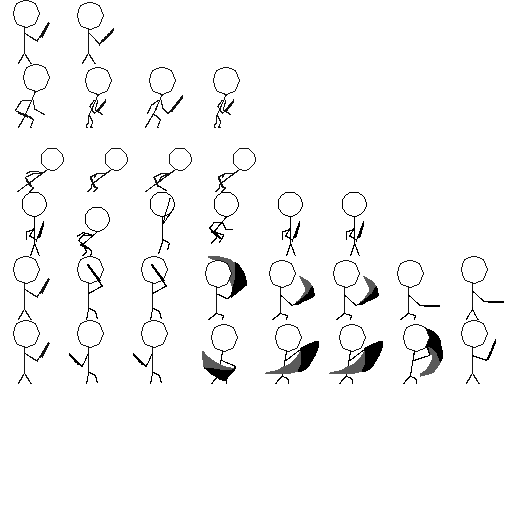
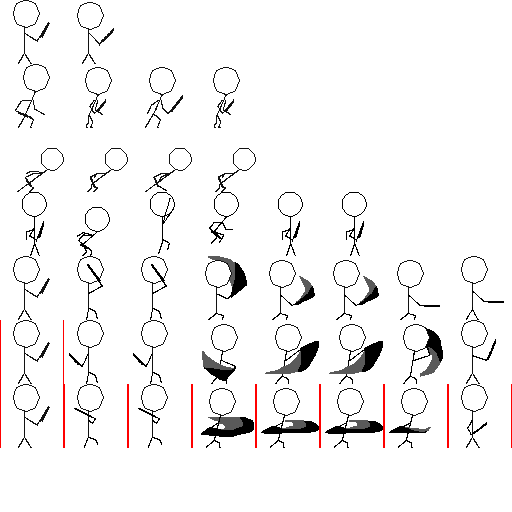
use combo of three attacks

diff --git a/src/application/player.c b/src/application/player.c
@@ -18,8 +18,10 @@ typedef enum
     PS_IDLE =                   0,
     PS_WALKING =                1,
     PS_JUMPING =                2,
-    PS_ATTACK1 =                3,
-    PS_ATTACK2 =                4
+    PS_ATTACKING =              3
+    // PS_ATTACK1 =                3,
+    // PS_ATTACK2 =                4,
+    // PS_ATTACK3 =                5
 } PlayerState;
 
 typedef enum
@@ -42,6 +44,7 @@ float walkDir = 0.0f;
 uint8_t left, right;
 PlayerState currentState = PS_IDLE;
 PhysicsEntity *phys = NULL;
+// float lastAttack = -1.0f;
 uint8_t attacking = 0;
 uint8_t canCombo = 0;
 
@@ -54,6 +57,7 @@ void player_create(PhysicsEntity *self)
     phys = self;
 }
 
+extern float frameTime;
 void player_think(Entity *self)
 {
     uint32_t *anim = NULL;
@@ -65,11 +69,12 @@ void player_think(Entity *self)
     player_attacking();
     if(phys && !phys->_onFloor)
     {
+        attacking = 0;
         currentState = PS_JUMPING;
     }
     else if( attacking )
     {
-        currentState = PS_ATTACK1 + attacking - 1;
+        currentState = PS_ATTACKING;
     }
     else if(walkDir != 0.0f)
     {
@@ -111,40 +116,87 @@ void player_think(Entity *self)
         }
         break;
 
-    case PS_ATTACK1:
-        anim = pj_anim_slash_down();
-        animSpeed = pj_anim_slash_down_speed();
-        frame = gf2d_animation_get_frame(self->anim);
-        if( self->anim->animation != anim[0] )
+    case PS_ATTACKING:
+        /* first attack */
+        if( self->anim->animation == pj_anim_slash_down()[0] )
         {
-            gf2d_animation_play(self->anim, anim[0], anim[1]);
-            self->anim->playbackSpeed = animSpeed;
-            canCombo = 0;
-        }
-        else if ( frame == anim[1]-1 )
-        {
-            attacking = 0;
-            canCombo = 0;
-        }
-        else if ( frame >= anim[1]-4 )
-        {
-            canCombo = 1;
-        }
-        break;
+            anim = pj_anim_slash_down();
+            animSpeed = pj_anim_slash_down_speed();
+            frame = gf2d_animation_get_frame(self->anim);
 
-    case PS_ATTACK2:
-        anim = pj_anim_slash_up();
-        animSpeed = pj_anim_slash_up_speed();
-        canCombo = 0;
-        if( self->anim->animation != anim[0] )
+            if ( frame >= anim[1] - 1 )
+            {
+                if(attacking <= 1)
+                {
+                    attacking = 0;
+                }
+                else
+                {
+                    /* start second attack if you asked for it */
+                    anim = pj_anim_slash_up();
+                    animSpeed = pj_anim_slash_up_speed();
+                    gf2d_animation_play(self->anim, anim[0], anim[1]);
+                    self->anim->playbackSpeed = animSpeed;
+                    canCombo = 0;
+                }
+                canCombo = 0;
+            }
+            else if ( frame >= anim[1] - 5 )
+            {
+                canCombo = 1;
+            }
+        }
+        /* second attack */
+        else if( self->anim->animation == pj_anim_slash_up()[0] )
         {
+            anim = pj_anim_slash_up();
+            animSpeed = pj_anim_slash_up_speed();
+            frame = gf2d_animation_get_frame(self->anim);
+            if (frame == anim[1] - 1)
+            {
+                if( attacking <= 2 )
+                {
+                    attacking = 0;
+                }
+                else
+                {
+                    anim = pj_anim_slash_side();
+                    animSpeed = pj_anim_slash_side_speed();
+                    gf2d_animation_play(self->anim, anim[0], anim[1]);
+                    self->anim->playbackSpeed = animSpeed;
+                    canCombo = 0;
+                }
+                
+                canCombo = 0;
+            }
+            else if ( frame >= anim[1] - 5 )
+            {
+                canCombo = 1;
+            }
+        }
+        /* third attack */
+        else if ( self->anim->animation == pj_anim_slash_side()[0] )
+        {
+            anim = pj_anim_slash_side();
+            animSpeed = pj_anim_slash_side_speed();
+            frame = gf2d_animation_get_frame(self->anim);
+            if ( frame == anim[1] - 1 )
+            {
+                attacking = 0;
+                canCombo = 0;
+            }
+        }
+        /* in attack state but not playing any attacking animation */
+        else
+        {
+            slog("start slash down");
+            anim = pj_anim_slash_down();
+            animSpeed = pj_anim_slash_down_speed();
             gf2d_animation_play(self->anim, anim[0], anim[1]);
             self->anim->playbackSpeed = animSpeed;
+            canCombo = 0;
         }
-        else if ( gf2d_animation_get_frame(self->anim) == anim[1]-1 )
-        {
-            attacking = 0;
-        }
+
         break;
     
     default:
@@ -186,20 +238,20 @@ void player_walking()
 {
     float dir = 0.0f;
 
+    // if(lastAttack >= 0.0f) return;
     if(attacking) return;
 
     dir = gf2d_input_joystick_get_axis(0, 0);
     if( dir != 0.0f ) 
     {
         walkDir = dir;
-        phys->entity->anim->rend->flip.x = (int)walkDir + 1;
+        if(walkDir != 0.0f) phys->entity->anim->rend->flip.x = walkDir < 0.0f;
         return;
     }
 
     if( gf2d_input_key_just_pressed(SDL_SCANCODE_RIGHT) )
     {
         right = 1;
-        phys->entity->anim->rend->flip.x = 0;
     }
     else if ( gf2d_input_key_released(SDL_SCANCODE_RIGHT) )
         right = 0;
@@ -207,12 +259,12 @@ void player_walking()
     if ( gf2d_input_key_just_pressed(SDL_SCANCODE_LEFT) )
     {
         left = 1;
-        phys->entity->anim->rend->flip.x = 1;
     }
     else if ( gf2d_input_key_released(SDL_SCANCODE_LEFT) )
         left = 0;
 
     walkDir = (float)(right - left);
+    if(walkDir != 0.0f) phys->entity->anim->rend->flip.x = walkDir < 0.0f;
 }
 
 void player_jumping(Entity *self)
@@ -226,7 +278,10 @@ void player_attacking()
 {
     if( !gf2d_input_key_just_pressed(SDL_SCANCODE_Z) ) return;
     if( !phys->_onFloor ) return;
+    if( attacking >= 3 ) return;
         
-    if(!attacking || canCombo) attacking++;
+    if( (!attacking || canCombo) ) attacking++;
+    if(canCombo) canCombo = 0;
+    
     walkDir = 0.0f;
 }

diff --git a/src/application/punti_jordan.c b/src/application/punti_jordan.c
@@ -15,6 +15,8 @@ typedef struct
     float                   slashDownSpeed;
     uint32_t                slashUp[2];
     float                   slashUpSpeed;
+    uint32_t                slashSide[2];
+    float                   slashSideSpeed;
 } PuntiJordanConfig;
 
 static PuntiJordanConfig pj_config = {0};
@@ -32,6 +34,7 @@ void punti_jordan_load(const char *filename)
     punti_jordan_load_anim_values(pj_config.jumping, &pj_config.jumpingSpeed, sj_object_get_value(json, "jumping"));
     punti_jordan_load_anim_values(pj_config.slashDown, &pj_config.slashDownSpeed, sj_object_get_value(json, "slashDown"));
     punti_jordan_load_anim_values(pj_config.slashUp, &pj_config.slashUpSpeed, sj_object_get_value(json, "slashUp"));
+    punti_jordan_load_anim_values(pj_config.slashSide, &pj_config.slashSideSpeed, sj_object_get_value(json, "slashSide"));
 
     sj_free(json);
 }
@@ -91,4 +94,14 @@ uint32_t *pj_anim_slash_up()
 float pj_anim_slash_up_speed()
 {
     return pj_config.slashUpSpeed;
+}
+
+uint32_t *pj_anim_slash_side()
+{
+    return pj_config.slashSide;
+}
+
+float pj_anim_slash_side_speed()
+{
+    return pj_config.slashSideSpeed;
 }

diff --git a/include/application/punti_jordan.h b/include/application/punti_jordan.h
@@ -20,4 +20,7 @@ float pj_anim_slash_down_speed();
 uint32_t *pj_anim_slash_up();
 float pj_anim_slash_up_speed();
 
+uint32_t *pj_anim_slash_side();
+float pj_anim_slash_side_speed();
+
 #endif
